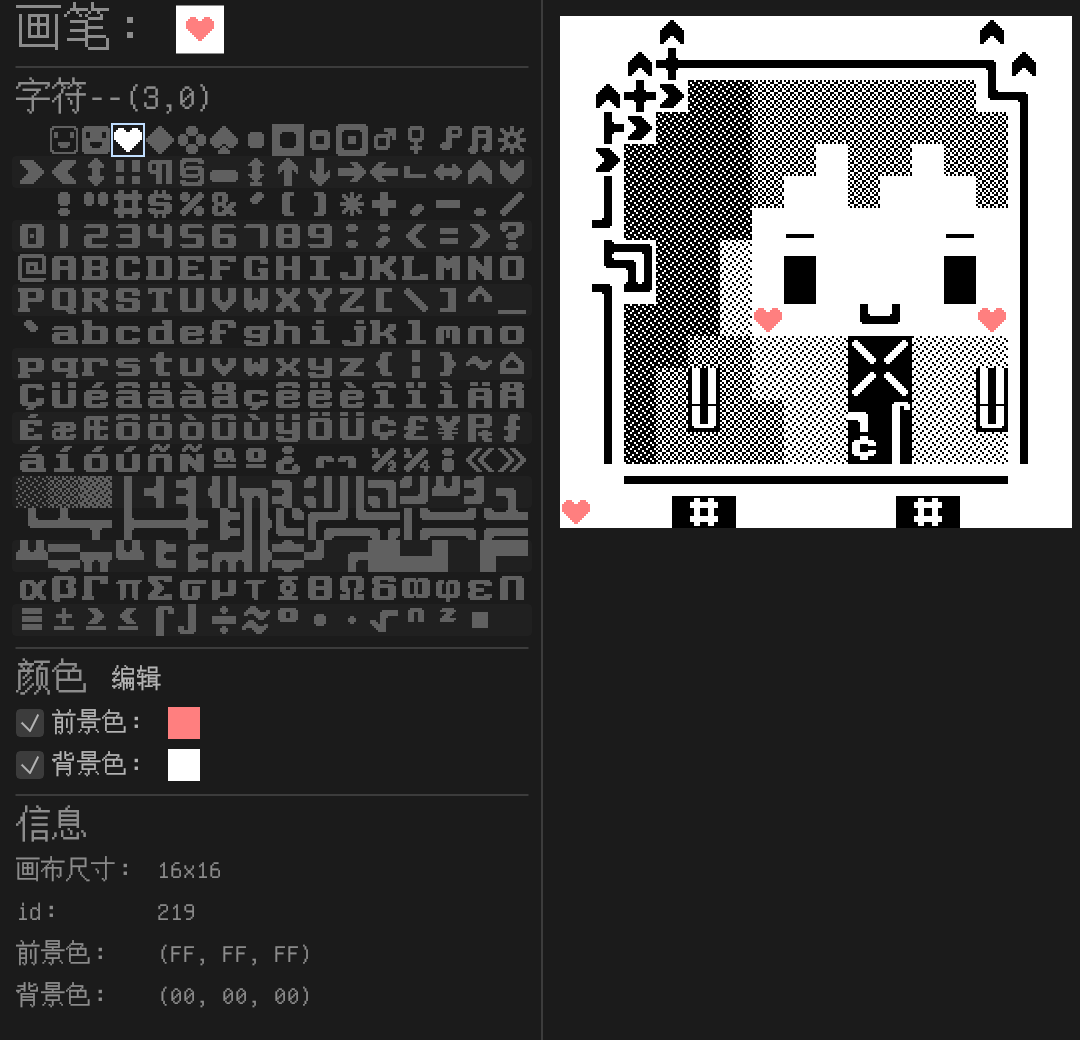
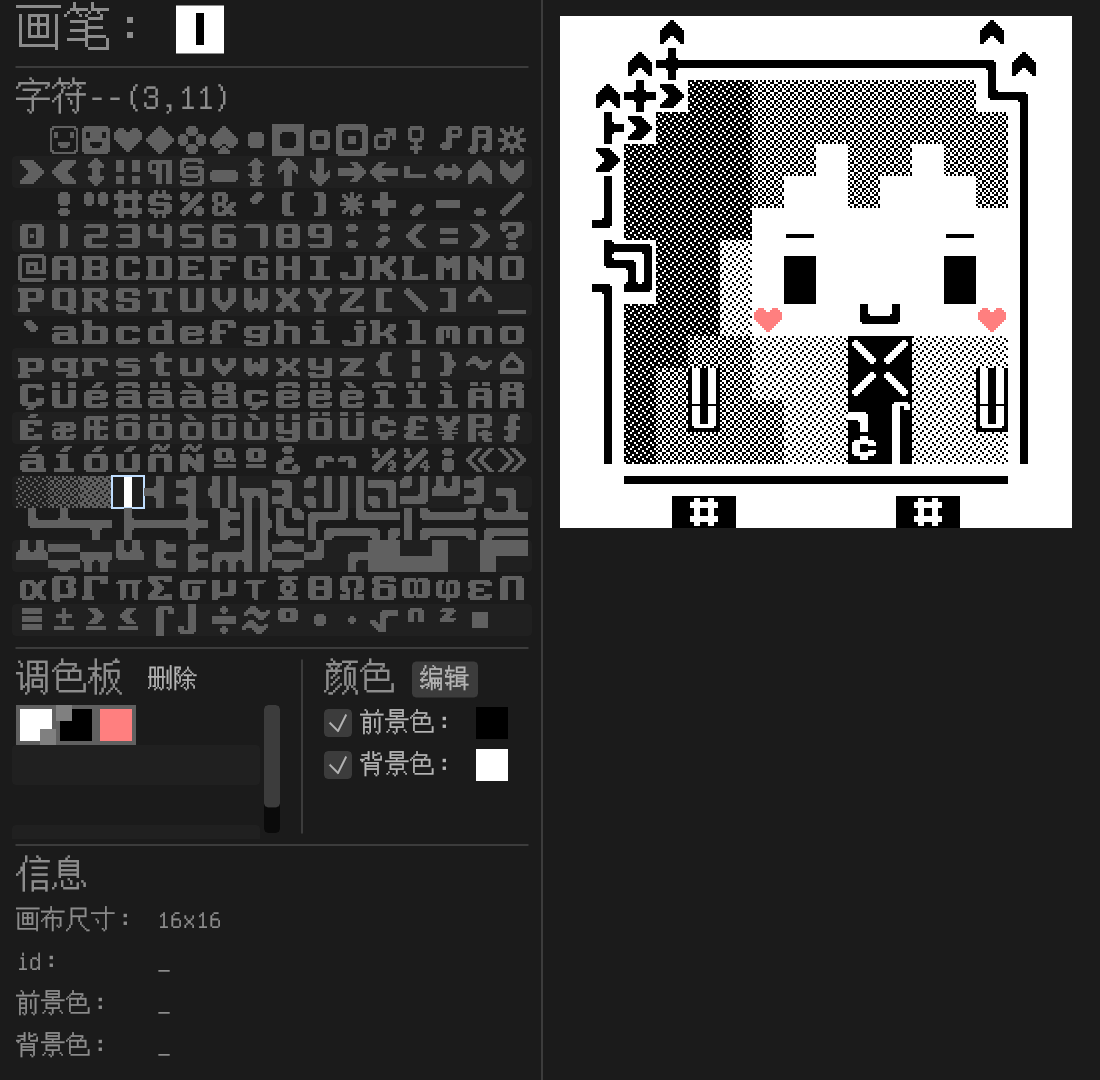
fix:side penel width

diff --git a/src/color_editer.rs b/src/color_editer.rs
@@ -1,6 +1,6 @@
 use std::collections::HashMap;
 
-use crate::canvas::TileState;
+use crate::{canvas::TileState, file::load_palette};
 use eframe::egui;
 use palette::FromColor;
 
@@ -47,7 +47,12 @@ impl Palette {
         self.color_index_hash_map.contains_key(&color)
     }
     pub fn new() -> Self {
-        let palette = vec![egui::Color32::BLACK, egui::Color32::WHITE];
+        let palette;
+        if let Ok(pal) = load_palette(std::path::Path::new("palette.json")) {
+            palette = pal
+        } else {
+            palette = vec![egui::Color32::WHITE, egui::Color32::BLACK];
+        }
         let mut color_index_hash_map = HashMap::with_capacity(palette.len());
         for (i, c) in palette.iter().enumerate() {
             color_index_hash_map.insert(*c, i);
@@ -81,29 +86,22 @@ impl PencilState {
         use crate::{TILE_SIZE, TILE_SIZE_VEC2};
         use egui::containers::scroll_area::ScrollBarVisibility;
         const SCALE_FACT: f32 = 1.25;
-        fn fill_empty(ui: &mut egui::Ui) {
-            let tile_size = TILE_SIZE * SCALE_FACT;
-            let line_size = egui::vec2(tile_size * PALETTE_X as f32, tile_size);
-            let (rect, _) = ui.allocate_exact_size(line_size, egui::Sense::hover());
-            if ui.is_rect_visible(rect) {
-                ui.painter()
-                    .rect_filled(rect, egui::Rounding::none(), egui::Color32::TRANSPARENT);
-            }
-
-            for _ in 1..PALETTE_Y {
-                ui.end_row();
-                let (rect, _) = ui.allocate_exact_size(line_size, egui::Sense::hover());
-                if ui.is_rect_visible(rect) {
-                    ui.painter().rect_filled(
-                        rect,
-                        egui::Rounding::none(),
-                        egui::Color32::TRANSPARENT,
-                    );
-                }
-            }
-        }
-        fn fill_rest(last: usize, rest: usize, ui: &mut egui::Ui) {
+        fn fill_rest(mut last: usize, mut rest: usize, ui: &mut egui::Ui) {
             let tile_size = TILE_SIZE_VEC2 * SCALE_FACT;
+            if last == 0 {
+                for _ in last..PALETTE_X {
+                    let (rect, _) = ui.allocate_exact_size(tile_size, egui::Sense::hover());
+                    if ui.is_rect_visible(rect) {
+                        ui.painter().rect_filled(
+                            rect,
+                            egui::Rounding::none(),
+                            egui::Color32::TRANSPARENT,
+                        );
+                    }
+                }
+                last = PALETTE_X;
+                rest -= PALETTE_X;
+            }
             for i in last..rest + last {
                 if i % PALETTE_X == 0 {
                     ui.end_row()
@@ -181,10 +179,6 @@ impl PencilState {
                         .min_row_height(TILE_SIZE)
                         .show(ui, |ui| {
                             let len = self.palette_len();
-                            if len == 0 {
-                                fill_empty(ui);
-                                return;
-                            }
                             let need_fill_rest = len < PALETTE_X;
                             let mut i = 0;
                             let first_line = if need_fill_rest { len } else { PALETTE_X };
@@ -226,9 +220,14 @@ impl PencilState {
                                 self.delete_color(idx);
                             }
 
-                            let y = len / PALETTE_X + (if len % PALETTE_X != 0 { 1 } else { 0 });
+                            let y = len / PALETTE_X + 1;
                             if y < PALETTE_Y {
-                                fill_rest(0, (PALETTE_Y - y) * PALETTE_X, ui);
+                                let last_x = len % PALETTE_X;
+                                fill_rest(
+                                    last_x,
+                                    (PALETTE_X - last_x) + (PALETTE_Y - y) * PALETTE_X,
+                                    ui,
+                                );
                             }
                         });
                 });
@@ -437,11 +436,6 @@ impl PencilState {
 
 impl Default for PencilState {
     fn default() -> Self {
-        let palette = vec![egui::Color32::BLACK, egui::Color32::WHITE];
-        let mut color_index_hash_map = HashMap::with_capacity(palette.len());
-        for (i, c) in palette.iter().enumerate() {
-            color_index_hash_map.insert(*c, i);
-        }
         Self {
             idx: 0,
             fc: egui::Color32::WHITE,

diff --git a/src/main.rs b/src/main.rs
@@ -77,7 +77,7 @@ impl FakePaint {
         setup::custom_fonts(&cc.egui_ctx);
         cc.egui_ctx.set_visuals(egui::Visuals::dark());
         let canvas: Canvas;
-        if let Ok(cc) = load_canvas_from_file(std::path::Path::new("output.json")) {
+        if let Ok(cc) = load_canvas_from_file(std::path::Path::new("canvas.json")) {
             canvas = cc;
         } else {
             let size_x: usize = 16;
@@ -332,7 +332,6 @@ impl eframe::App for FakePaint {
     fn update(&mut self, ctx: &egui::Context, _frame: &mut eframe::Frame) {
         egui::SidePanel::left("left_panel")
             .resizable(false)
-            .max_width(0.0)
             .show(ctx, |ui| {
                 self.draw_pencil_state(ui);
                 ui.separator();
@@ -352,7 +351,7 @@ impl eframe::App for FakePaint {
     }
 
     fn on_close_event(&mut self) -> bool {
-        let res = write_canvas_to_file(&self.canvas, std::path::Path::new("output.json"));
+        let res = write_canvas_to_file(&self.canvas, std::path::Path::new("canvas.json"));
         let res1 = self
             .pencil_state
             .write_palette(std::path::Path::new("palette.json"));

diff --git a/src/file.rs b/src/file.rs
@@ -38,3 +38,17 @@ pub fn write_palette(palette: &Vec<egui::Color32>, path: &Path) -> Result<(), Bo
     serde_json::to_writer_pretty(writer, &palette)?;
     Ok(())
 }
+
+pub fn load_palette(path: &Path) -> Result<Vec<egui::Color32>, Box<dyn Error>> {
+    fn to_color_vec(vec: Vec<(u8, u8, u8)>) -> Vec<egui::Color32> {
+        let mut p = Vec::with_capacity(vec.len());
+        for (r, g, b) in vec {
+            p.push(egui::Color32::from_rgb(r, g, b));
+        }
+        p
+    }
+    let file = File::open(path)?;
+    let reader = BufReader::new(file);
+    let palette: Vec<(u8, u8, u8)> = serde_json::from_reader(reader)?;
+    Ok(to_color_vec(palette))
+}
